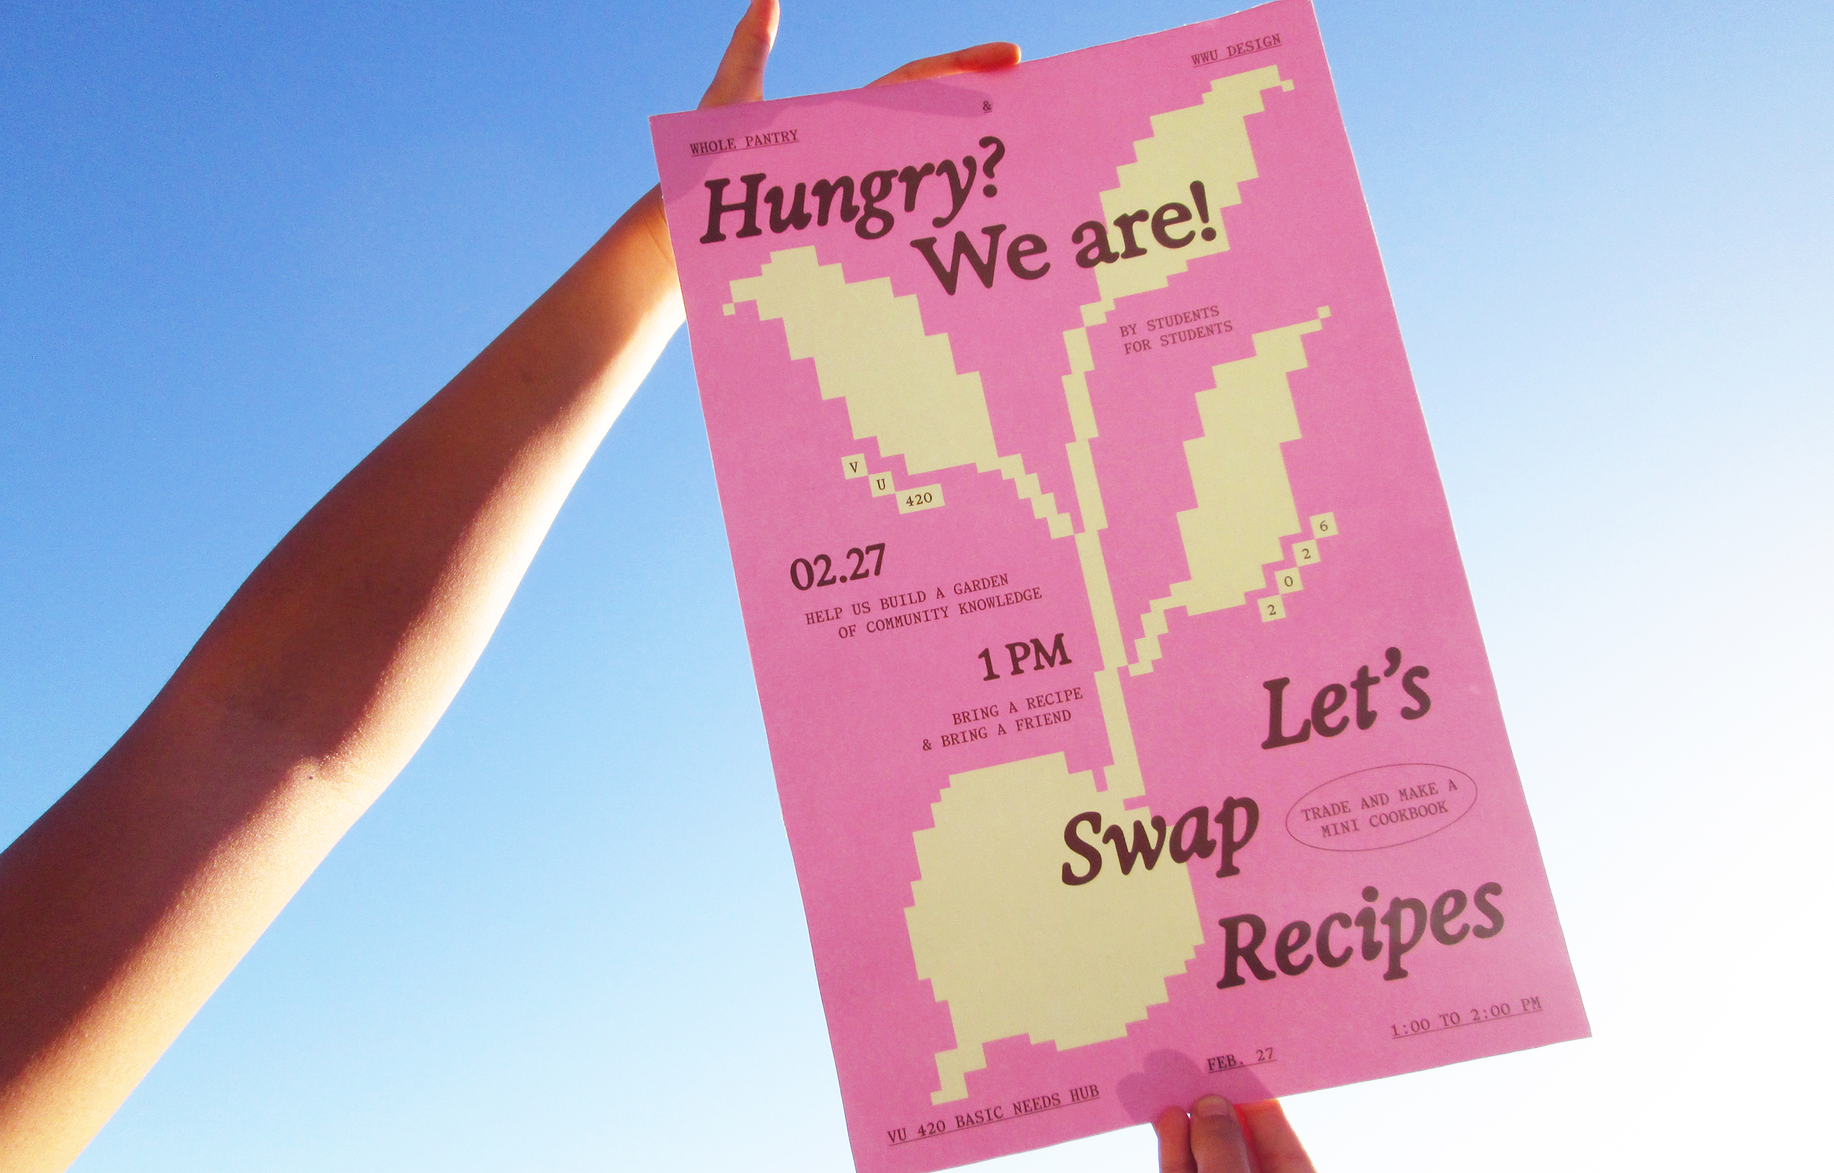
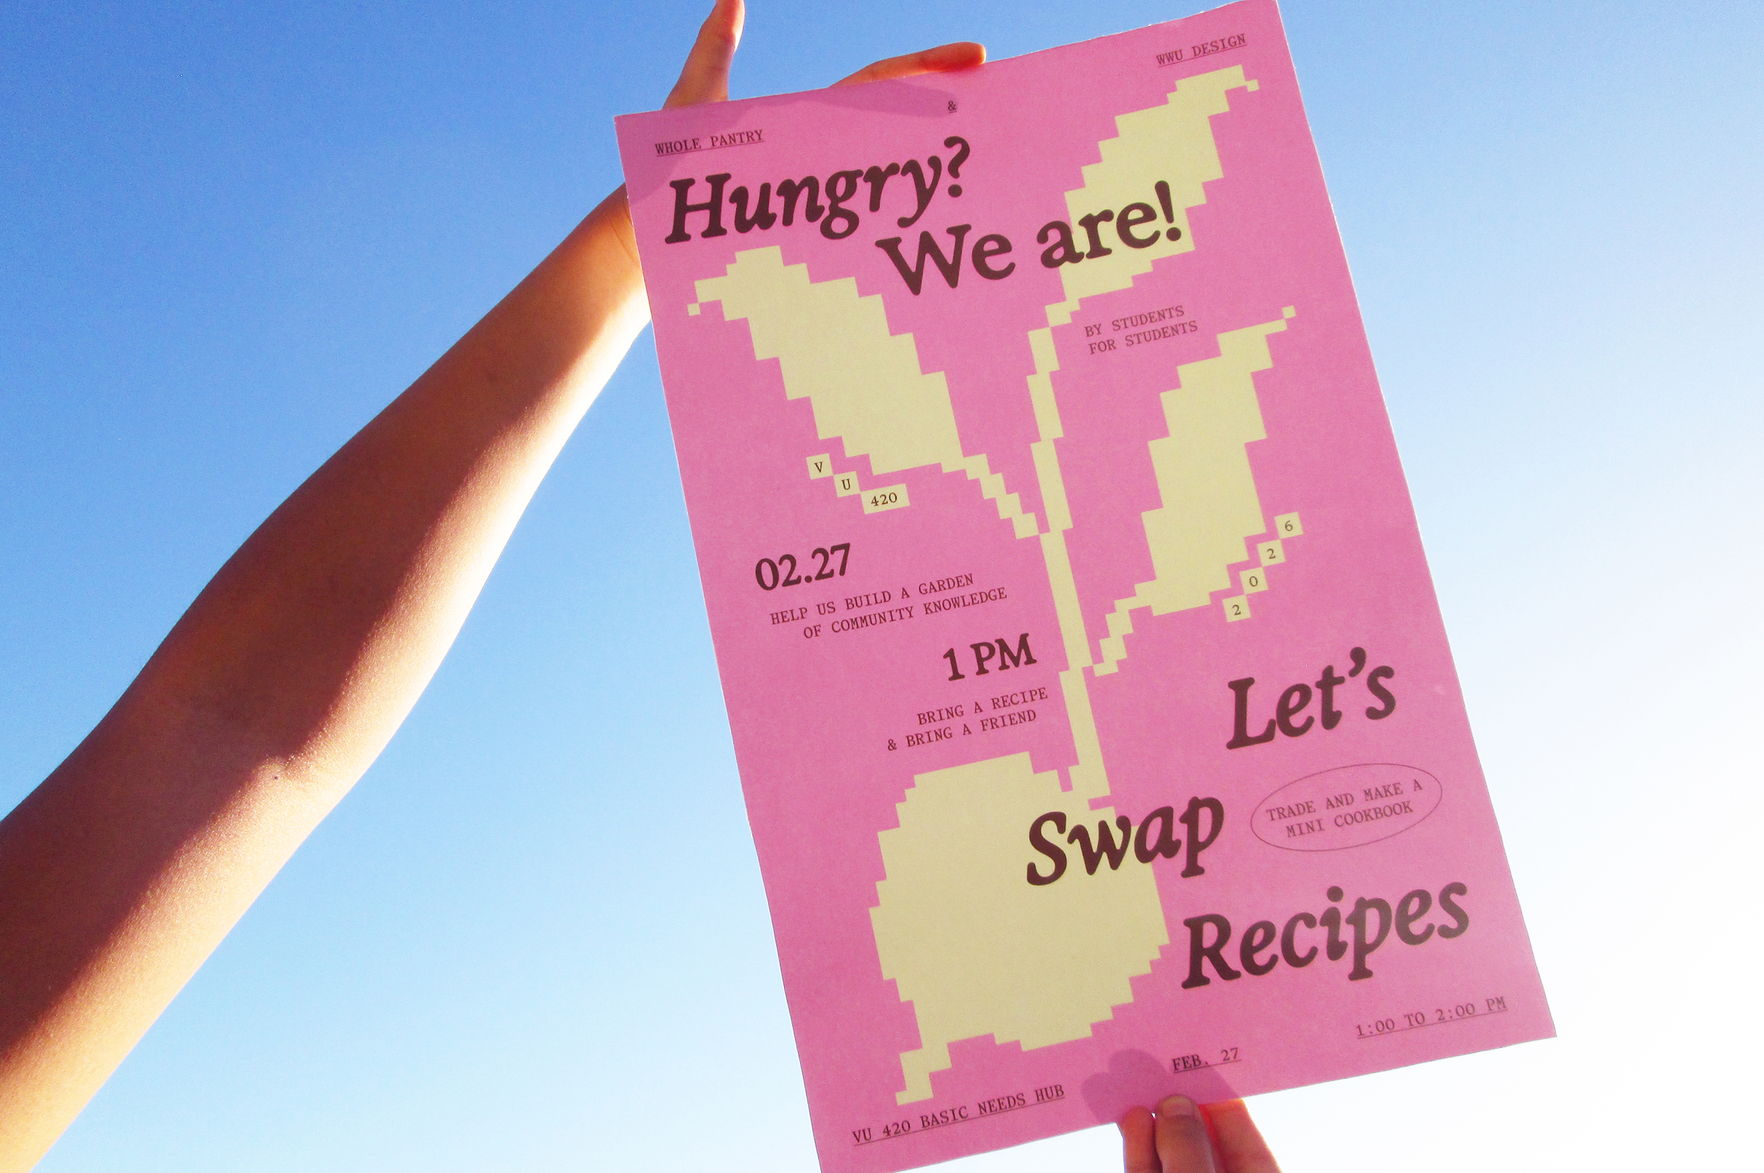
update

diff --git a/about.html b/about.html
@@ -28,18 +28,18 @@
                     <div class="selectedworknav">
                         <a href="index.html">SELECTED WORK</a>
                         <ul class="dropdown-menu">
-                            <li><a href="crosstie.html" target="_blank">crosstie</a></li>
-                            <li><a href="iwantyoutodig.html" target="_blank">i want you to dig</a></li>
-                            <li><a href="recipe.html" target="_blank">recipe garden</a></li>
-                            <li><a href="civilrights.html" target="_blank">civil rights oral history archive</a></li>
-                            <li><a href="natbookfest.html" target="_blank">national book festival</a></li>
-                            <li><a href="watchingzine.html" target="_blank">watching you watching me</a></li>
+                            <li><a href="crosstie.html">crosstie</a></li>
+                            <li><a href="iwantyoutodig.html">i want you to dig</a></li>
+                            <li><a href="recipe.html">recipe garden</a></li>
+                            <li><a href="civilrights.html">civil rights oral history archive</a></li>
+                            <li><a href="natbookfest.html">national book festival</a></li>
+                            <li><a href="watchingzine.html">watching you watching me</a></li>
                         </ul>
                     </div>
                     <br>
-                    <div class="archivenav">
+                    <!-- <div class="archivenav">
                         <a href="archive.html">ARCHIVE</a>
-                    </div>
+                    </div> -->
                     <br>
                     <div class="aboutnav">
                         <a href="about.html">ABOUT</a>
@@ -77,20 +77,23 @@
 
                     <div class="left">
                         <div class="aboutme">
-                            <h2> Hi, I'm Sofia :-]</h2>
-                            <br>
+
                             <p class="about">
-                                Welcome to my site, lovingly handcoded by me! I am (graphic designer) based in
-                                Washington. I believe in designing for people in ways that spark curiosity and dialogue.
-                                I draw from a deep well of inspiration, much of which lies in philosophy, literature,
-                                and movies. I love reading (ask me about my pdf collection), writing, and picking up new
-                                skills <3 <br>
-                                    <br>
-                                    Talk to me about design, or send me your favorite <a
-                                        href="https://en.wikipedia.org/wiki/Ferdinand_Cheval">wikipedia article &darr;
-                                    </a>
+                                I am a ( designer ) based on the West Coast. Currently designing at SFMOMA.
+                                <br> <br>Practicing
+                                primarily in arts and culture, my work considers how design can exist in
+                                conversation with and iterate upon artistic and literary processes. I am drawn to
+                                investigate the opportunities
+                                introduced by designs status as an intermediary between artists, cultural and educational institutions,
+                             and the public. I am always open to discussing new work, especially projects that blur the line between printed and digital materials.
+                                <br>
+                                <br>
+                              View my
+                                <a href="https://acrobat.adobe.com/id/urn:aaid:sc:US:5fdbf7d9-65fe-4186-bcce-28aa6ff025cd">resume &darr;
+                                </a> or get in contact below.
                             </p>
                             <ul>
+
                                 <li><a href="https://www.linkedin.com/in/sofia-choi-241aab351/">&#8599 linkedin </a>
                                 </li>
 

diff --git a/civilrights.html b/civilrights.html
@@ -28,18 +28,18 @@
                     <div class="selectedworknav">
                         <a href="index.html">SELECTED WORK</a>
                         <ul class="dropdown-menu">
-                            <li><a href="crosstie.html" target="_blank">crosstie</a></li>
-                            <li><a href="iwantyoutodig.html" target="_blank">i want you to dig</a></li>
-                            <li><a href="recipe.html" target="_blank">recipe garden</a></li>
-                            <li><a href="civilrights.html" target="_blank">civil rights oral history archive</a></li>
-                            <li><a href="natbookfest.html" target="_blank">national book festival</a></li>
-                            <li><a href="watchingzine.html" target="_blank">watching you watching me</a></li>
+                            <li><a href="crosstie.html">crosstie</a></li>
+                            <li><a href="iwantyoutodig.html">i want you to dig</a></li>
+                            <li><a href="recipe.html" >recipe garden</a></li>
+                            <li><a href="civilrights.html" >civil rights oral history archive</a></li>
+                            <li><a href="natbookfest.html" >national book festival</a></li>
+                            <li><a href="watchingzine.html" >watching you watching me</a></li>
                         </ul>
                     </div>
                     <br>
-                    <div class="archivenav">
+                    <!-- <div class="archivenav">
                         <a href="archive.html">ARCHIVE</a>
-                    </div>
+                    </div> -->
                     <br>
                     <div class="aboutnav">
                         <a href="about.html">ABOUT</a>
@@ -67,12 +67,11 @@
             <hr>
             <div class="workpage">
                 <div class="heroimage">
-                    <img src="IMAGES/CIVILRIGHTS/Frame 208.png">
+                    <img src="IMAGES/CIVILRIGHTS/header.gif">
                 </div>
                 <div class="list">
                     <div class="listleft">
                         <ul>
-                            <li>&#8594; Ongoing</li>
                             <li>&#8594; Website Redesign, Research</li>
                             <li>&#8594; <a
                                     href="https://www.figma.com/proto/Mnw7i7QtAKMWUQAU9NRnYo/Civil-Rights-Archive?node-id=891-2321&t=C8uKyyAje6D4TXnt-1&scaling=scale-down&content-scaling=fixed&page-id=2%3A2&starting-point-node-id=891%3A2744"

diff --git a/index.html b/index.html
@@ -27,18 +27,18 @@
                     <div class="selectedworknav">
                         <a href="index.html">SELECTED WORK</a>
                         <ul class="dropdown-menu">
-                            <li><a href="crosstie.html" target="_blank">crosstie</a></li>
-                            <li><a href="iwantyoutodig.html" target="_blank">i want you to dig</a></li>
-                            <li><a href="recipe.html" target="_blank">recipe garden</a></li>
-                            <li><a href="civilrights.html" target="_blank">civil rights oral history archive</a></li>
-                            <li><a href="natbookfest.html" target="_blank">national book festival</a></li>
-                            <li><a href="watchingzine.html" target="_blank">watching you watching me</a></li>
+                            <li><a href="crosstie.html">crosstie</a></li>
+                            <li><a href="iwantyoutodig.html">i want you to dig</a></li>
+                            <li><a href="recipe.html" >recipe garden</a></li>
+                            <li><a href="civilrights.html" >civil rights oral history archive</a></li>
+                            <li><a href="natbookfest.html" >national book festival</a></li>
+                            <li><a href="watchingzine.html" >watching you watching me</a></li>
                         </ul>
                     </div>
                     <br>
-                    <div class="archivenav">
+                    <!-- <div class="archivenav">
                         <a href="archive.html">ARCHIVE</a>
-                    </div>
+                    </div> -->
                     <br>
                     <div class="aboutnav">
                         <a href="about.html">ABOUT</a>
@@ -114,7 +114,7 @@
                             </p>
                         </div>
                         <div class="box5">
-                             <a href="civilrights.html"><img src="IMAGES/CIVILRIGHTS/Frame 208.png" width="500px"
+                             <a href="civilrights.html"><img src="IMAGES/CIVILRIGHTS/header.gif" width="500px"
                                     alt="Rome Grocery Logo"></a>
                             <a href="civilrights.html">
                                 <h1>Civil Rights Oral History Archive | UI</h1>

diff --git a/crosstie.html b/crosstie.html
@@ -28,18 +28,18 @@
                     <div class="selectedworknav">
                         <a href="index.html">SELECTED WORK</a>
                         <ul class="dropdown-menu">
-                            <li><a href="crosstie.html" target="_blank">crosstie</a></li>
-                            <li><a href="iwantyoutodig.html" target="_blank">i want you to dig</a></li>
-                            <li><a href="recipe.html" target="_blank">recipe garden</a></li>
-                            <li><a href="civilrights.html" target="_blank">civil rights oral history archive</a></li>
-                            <li><a href="natbookfest.html" target="_blank">national book festival</a></li>
-                            <li><a href="watchingzine.html" target="_blank">watching you watching me</a></li>
+                            <li><a href="crosstie.html">crosstie</a></li>
+                            <li><a href="iwantyoutodig.html">i want you to dig</a></li>
+                            <li><a href="recipe.html" >recipe garden</a></li>
+                            <li><a href="civilrights.html" >civil rights oral history archive</a></li>
+                            <li><a href="natbookfest.html" >national book festival</a></li>
+                            <li><a href="watchingzine.html" >watching you watching me</a></li>
                         </ul>
                     </div>
                     <br>
-                    <div class="archivenav">
+                    <!-- <div class="archivenav">
                         <a href="archive.html">ARCHIVE</a>
-                    </div>
+                    </div> -->
                     <br>
                     <div class="aboutnav">
                         <a href="about.html">ABOUT</a>

diff --git a/iwantyoutodig.html b/iwantyoutodig.html
@@ -28,18 +28,18 @@
                     <div class="selectedworknav">
                         <a href="index.html">SELECTED WORK</a>
                         <ul class="dropdown-menu">
-                            <li><a href="crosstie.html" target="_blank">crosstie</a></li>
-                            <li><a href="iwantyoutodig.html" target="_blank">i want you to dig</a></li>
-                            <li><a href="recipe.html" target="_blank">recipe garden</a></li>
-                            <li><a href="civilrights.html" target="_blank">civil rights oral history archive</a></li>
-                            <li><a href="natbookfest.html" target="_blank">national book festival</a></li>
-                            <li><a href="watchingzine.html" target="_blank">watching you watching me</a></li>
+                            <li><a href="crosstie.html">crosstie</a></li>
+                            <li><a href="iwantyoutodig.html">i want you to dig</a></li>
+                            <li><a href="recipe.html" >recipe garden</a></li>
+                            <li><a href="civilrights.html" >civil rights oral history archive</a></li>
+                            <li><a href="natbookfest.html" >national book festival</a></li>
+                            <li><a href="watchingzine.html" >watching you watching me</a></li>
                         </ul>
                     </div>
                     <br>
-                    <div class="archivenav">
+                    <!-- <div class="archivenav">
                         <a href="archive.html">ARCHIVE</a>
-                    </div>
+                    </div> -->
                     <br>
                     <div class="aboutnav">
                         <a href="about.html">ABOUT</a>

diff --git a/natbookfest.html b/natbookfest.html
@@ -28,18 +28,18 @@
                     <div class="selectedworknav">
                         <a href="index.html">SELECTED WORK</a>
                         <ul class="dropdown-menu">
-                            <li><a href="crosstie.html" target="_blank">crosstie</a></li>
-                            <li><a href="iwantyoutodig.html" target="_blank">i want you to dig</a></li>
-                            <li><a href="recipe.html" target="_blank">recipe garden</a></li>
-                            <li><a href="civilrights.html" target="_blank">civil rights oral history archive</a></li>
-                            <li><a href="natbookfest.html" target="_blank">national book festival</a></li>
-                            <li><a href="watchingzine.html" target="_blank">watching you watching me</a></li>
+                            <li><a href="crosstie.html">crosstie</a></li>
+                            <li><a href="iwantyoutodig.html">i want you to dig</a></li>
+                            <li><a href="recipe.html" >recipe garden</a></li>
+                            <li><a href="civilrights.html" >civil rights oral history archive</a></li>
+                            <li><a href="natbookfest.html" >national book festival</a></li>
+                            <li><a href="watchingzine.html" >watching you watching me</a></li>
                         </ul>
                     </div>
                     <br>
-                    <div class="archivenav">
+                    <!-- <div class="archivenav">
                         <a href="archive.html">ARCHIVE</a>
-                    </div>
+                    </div> -->
                     <br>
                     <div class="aboutnav">
                         <a href="about.html">ABOUT</a>

diff --git a/recipe.html b/recipe.html
@@ -28,18 +28,18 @@
                     <div class="selectedworknav">
                         <a href="index.html">SELECTED WORK</a>
                         <ul class="dropdown-menu">
-                            <li><a href="crosstie.html" target="_blank">crosstie</a></li>
-                            <li><a href="iwantyoutodig.html" target="_blank">i want you to dig</a></li>
-                            <li><a href="recipe.html" target="_blank">recipe garden</a></li>
-                            <li><a href="civilrights.html" target="_blank">civil rights oral history archive</a></li>
-                            <li><a href="natbookfest.html" target="_blank">national book festival</a></li>
-                            <li><a href="watchingzine.html" target="_blank">watching you watching me</a></li>
+                            <li><a href="crosstie.html">crosstie</a></li>
+                            <li><a href="iwantyoutodig.html">i want you to dig</a></li>
+                            <li><a href="recipe.html" >recipe garden</a></li>
+                            <li><a href="civilrights.html" >civil rights oral history archive</a></li>
+                            <li><a href="natbookfest.html" >national book festival</a></li>
+                            <li><a href="watchingzine.html" >watching you watching me</a></li>
                         </ul>
                     </div>
                     <br>
-                    <div class="archivenav">
+                    <!-- <div class="archivenav">
                         <a href="archive.html">ARCHIVE</a>
-                    </div>
+                    </div> -->
                     <br>
                     <div class="aboutnav">
                         <a href="about.html">ABOUT</a>

diff --git a/watchingzine.html b/watchingzine.html
@@ -28,18 +28,18 @@
                     <div class="selectedworknav">
                         <a href="index.html">SELECTED WORK</a>
                         <ul class="dropdown-menu">
-                            <li><a href="crosstie.html" target="_blank">crosstie</a></li>
-                            <li><a href="iwantyoutodig.html" target="_blank">i want you to dig</a></li>
-                            <li><a href="recipe.html" target="_blank">recipe garden</a></li>
-                            <li><a href="civilrights.html" target="_blank">civil rights oral history archive</a></li>
-                            <li><a href="natbookfest.html" target="_blank">national book festival</a></li>
-                            <li><a href="watchingzine.html" target="_blank">watching you watching me</a></li>
+                            <li><a href="crosstie.html">crosstie</a></li>
+                            <li><a href="iwantyoutodig.html">i want you to dig</a></li>
+                            <li><a href="recipe.html" >recipe garden</a></li>
+                            <li><a href="civilrights.html" >civil rights oral history archive</a></li>
+                            <li><a href="natbookfest.html" >national book festival</a></li>
+                            <li><a href="watchingzine.html" >watching you watching me</a></li>
                         </ul>
                     </div>
                     <br>
-                    <div class="archivenav">
+                    <!-- <div class="archivenav">
                         <a href="archive.html">ARCHIVE</a>
-                    </div>
+                    </div> -->
                     <br>
                     <div class="aboutnav">
                         <a href="about.html">ABOUT</a>

diff --git a/css/portfolio.css b/css/portfolio.css
@@ -130,7 +130,7 @@ font-family: ibm-plex-mono, sans-serif;
     font-size: 12px;
     font-style: normal;
     font-weight: 400;
-    line-height: normal;
+    line-height: 1.5em;
     margin-bottom: 0px;
     margin-top: 10px;
 }
@@ -172,6 +172,7 @@ font-family: ibm-plex-mono, sans-serif;
     font-size: 12px;
     font-style: normal;
     font-weight: 400;
+    line-height: 2em;
 }
 
 nav a:hover {
@@ -197,7 +198,7 @@ font-family: ibm-plex-mono, sans-serif;
     font-size: 12px;
     font-style: normal;
     font-weight: 400;
-    line-height: normal;
+    line-height: 2em;
     bottom: 20px;
     left: auto;
 }
@@ -210,7 +211,7 @@ font-family: ibm-plex-mono, sans-serif;
     font-size: 12px;
     font-style: normal;
     font-weight: 400;
-    line-height: normal;
+    line-height: 2em;
     bottom: 20px;
     left: auto;
 }
@@ -239,7 +240,7 @@ font-family: ibm-plex-mono, sans-serif;
     font-size: 12px;
     font-style: normal;
     font-weight: 700;
-    line-height: normal;
+    line-height: 1.5em;
     margin-top: 10px;
 }
 
@@ -259,7 +260,7 @@ font-family: ibm-plex-mono, sans-serif;
     font-size: 12px;
     font-style: normal;
     font-weight: 400;
-    line-height: normal;
+    line-height: 1.5em;
     margin-bottom: 25px;
 }
 
@@ -280,7 +281,7 @@ font-family: neue-haas-unica, sans-serif;
     font-size: 16px;
     font-style: normal;
     font-weight: 400;
-    line-height: normal;
+    line-height: 1.5em;
 }
 
 
@@ -403,7 +404,7 @@ font-family: neue-haas-unica, sans-serif;
     font-size: 24px;
     font-style: normal;
     font-weight: 400;
-    line-height: normal;
+    line-height: 1.5em;
 }
 
 .description {

diff --git a/Mirror.html b/Mirror.html
@@ -37,9 +37,9 @@
                         </ul>
                     </div>
                     <br>
-                    <div class="archivenav">
+                    <!-- <div class="archivenav">
                         <a href="archive.html">ARCHIVE</a>
-                    </div>
+                    </div> -->
                     <br>
                     <div class="aboutnav">
                         <a href="about.html">ABOUT</a>

diff --git a/muuse.html b/muuse.html
@@ -37,9 +37,9 @@
                         </ul>
                     </div>
                     <br>
-                    <div class="archivenav">
+                    <!-- <div class="archivenav">
                         <a href="archive.html">ARCHIVE</a>
-                    </div>
+                    </div> -->
                     <br>
                     <div class="aboutnav">
                         <a href="about.html">ABOUT</a>

diff --git a/romegrocery.html b/romegrocery.html
@@ -37,9 +37,9 @@
                         </ul>
                     </div>
                     <br>
-                    <div class="archivenav">
+                    <!-- <div class="archivenav">
                         <a href="archive.html">ARCHIVE</a>
-                    </div>
+                    </div> -->
                     <br>
                     <div class="aboutnav">
                         <a href="about.html">ABOUT</a>
